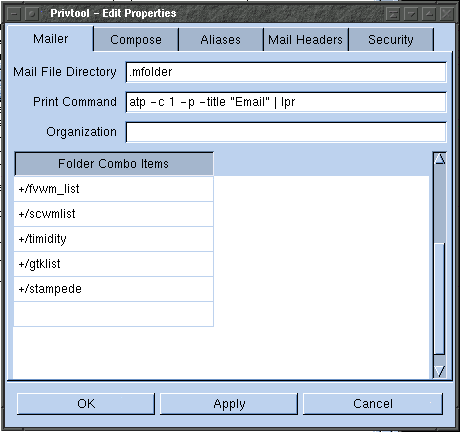
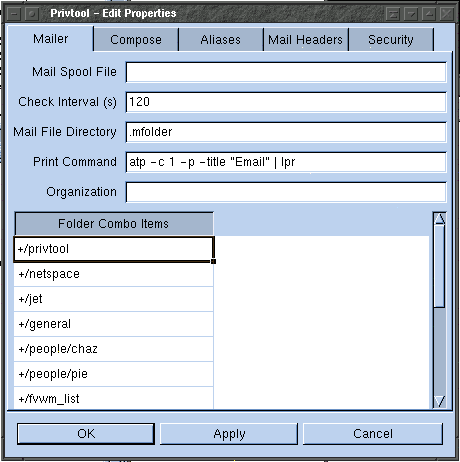
Updated the doco to reflect the new properties fields added for signature file & mail check interval.

diff --git a/doc_gtk/user_guide3.html b/doc_gtk/user_guide3.html
@@ -38,8 +38,18 @@ last row another row will automatically be created. Also enpty rows are ignored.
 <H3>Mailer</H3>
 The first page presents general mailer configuration options. These are:
 <P>
-<TABLE WIDTH="85%" ALIGN=center><TR>
-<TD>Mail File Directory</TD><TD>The directory where the mail folders reside.</TD>
+<TABLE WIDTH="85%" ALIGN=center>
+<TR>
+<TD VALIGN=top>Mail Spool File</TD>
+<TD VALIGN=top>The file where incoming mail is delivered. If this field is
+left empty then the spool file defaults to either <TT>/var/spool/mail/&lt;username&gt;</TT> or
+to a compiled in default.</TD>
+</TR><TR>
+<TD VALIGN=top>Check Interval</TD>
+<TD VALIGN=top>How often (in seconds) privtool will check for new mail.</TD>
+</TR><TR>
+<TD VALIGN=top>Mail File Directory</TD>
+<TD VALIGN=top>The directory where the mail folders reside.</TD>
 </TR><TR>
 <TD VALIGN=top>Print Command</TD>
 <TD VALIGN=top>The command which will have the mail item piped to it for printing.</TD>
@@ -68,6 +78,13 @@ This only needs to be set if the system doesn't get it right automatically</TD><
 <TR><TD VALIGN=top>Log Folder Name</TD>
 <TD VALIGN=top>The name of a folder where outgoing mail will be saved. (Outgoing mail is saved
 when the <STRONG>Log</STRONG> checkbox is checked in the compose window.)</TD></TR>
+<TR><TD VALIGN=top>Signature File</TD>
+<TD VALIGN=top>This specifies the name of the signature file to use. If specified then the
+file will be appended to every message that you send. The filename is assumed
+to be relative to the user's home directory unless it begins with a '<TT>/</TT>'.<BR>
+Alternatively, if the filename begins with a '<TT>|</TT>' then the rest of the filename is interpreted
+as a program to run which will produce the "signature" on its standard output.
+</TD></TR>
 <TR><TD COLSPAN=2><STRONG>Options</STRONG></TD></TR>
 <TR><TD VALIGN=top>Sign Outgoing Mail</TD>
 <TD VALIGN=top>The default setting to specify whether sent mail should be digitally signed.</TD></TR>
